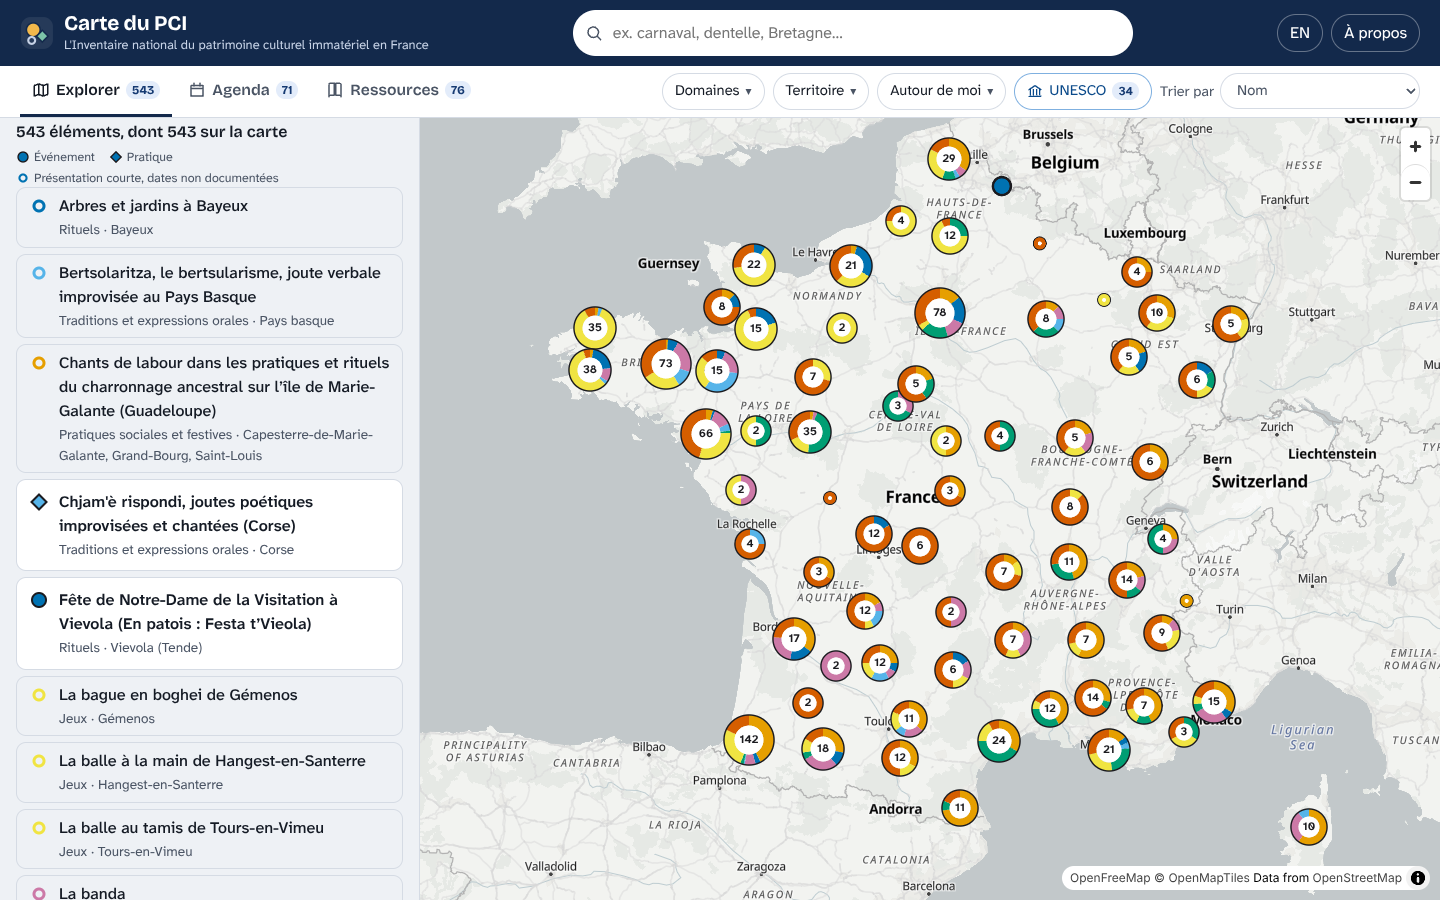
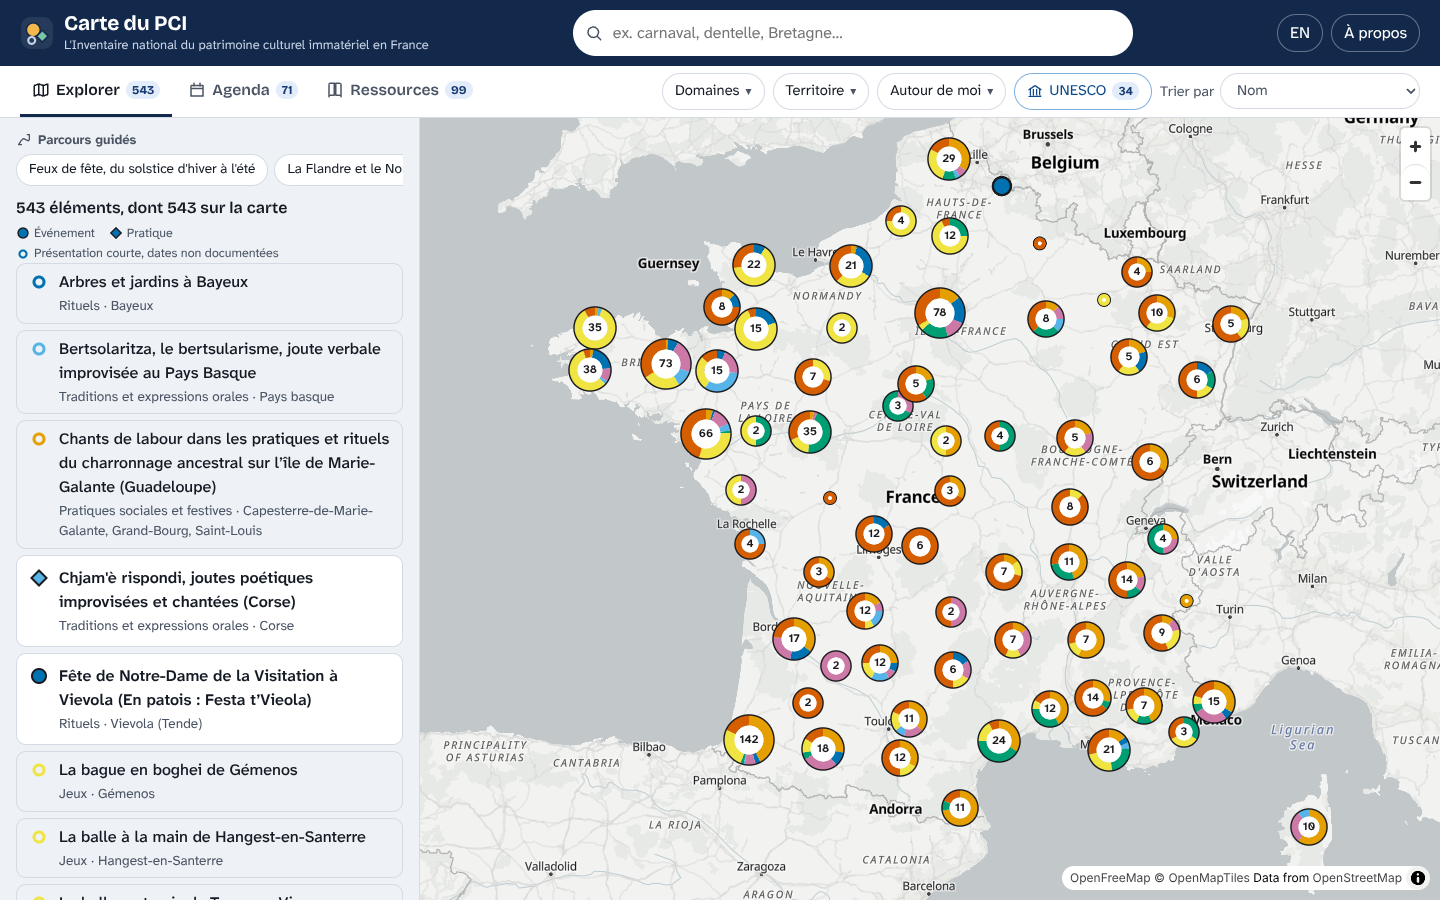
Resources: fold the long list of other worksheets; refresh screenshots
Claude-Session: https://claude.ai/code/session_01AqnAMrBoKunjqUn9FTHm4o

Changed region(s): [[0.0, 0.1244, 0.2812, 1.0]]

diff --git a/web/src/main.ts b/web/src/main.ts
@@ -73,6 +73,7 @@ let entries: Entry[] = [];
 let sheets: Record<string, MediationSheet> = {};
 let announced: Announced | null = null;
 let resources: Resources = { media: {}, lessons: [], stories: [] };
+let otherSheetsOpen = false;
 let lastStoryKey = ""; // story + step last shown, to fly the map only on change
 let mapView: MapView | null = null;
 let mapFailed = false;
@@ -1270,7 +1271,19 @@ function sheetSection(id: string, title: string, intro: string, items: Item[], h
     { class: `res-section${highlight ? " highlight" : ""}`, "aria-labelledby": id },
     h("header", {}, h("h3", { id }, title), h("p", { class: "count" }, s.worksheetsCount(items.length))),
     h("p", { class: "section-note" }, intro),
-    h("ul", { class: "cards" }, items.map(worksheetCard)),
+    highlight || state.q.trim() || state.themes.length
+      ? h("ul", { class: "cards" }, items.map(worksheetCard))
+      : // The long list of other sheets stays folded until asked for (or filtered).
+        h(
+          "details",
+          {
+            class: "more-sheets",
+            open: otherSheetsOpen,
+            ontoggle: (e: Event) => (otherSheetsOpen = (e.target as HTMLDetailsElement).open),
+          },
+          h("summary", { "data-key": "more-sheets" }, s.showSheets(items.length)),
+          h("ul", { class: "cards" }, items.map(worksheetCard)),
+        ),
   );
 }
 

diff --git a/web/src/i18n/fr.ts b/web/src/i18n/fr.ts
@@ -120,6 +120,7 @@ export const fr = {
     "Le CSV (UTF-8, une ligne par élément) sépare les valeurs multiples par « | » ; le JSON garde tous les lieux et la règle de date complète. Les images ne sont pas incluses (crédits et licences propres à chacune).",
   openDataLicence:
     "Licence Ouverte 2.0 (Etalab). Source : ministère de la Culture, Inventaire national du PCI ; lieux d'après PCI Lab et les fiches ; résumés rédigés pour la Carte du PCI (brouillons). Merci de citer « Carte du PCI ».",
+  showSheets: (n: number) => `Afficher les ${n} fiches`,
   sheetQuestions: "Questions pour en parler",
   sheetVocabulary: "Vocabulaire",
   sheetTerm: "Mot et définition",

diff --git a/web/src/i18n/en.ts b/web/src/i18n/en.ts
@@ -122,6 +122,7 @@ export const en: Strings = {
     "The CSV (UTF-8, one row per element) separates multiple values with \"|\"; the JSON keeps every place and the full dating rule. Pictures are not included (each has its own credits and licence).",
   openDataLicence:
     "Licence Ouverte 2.0 (Etalab). Source: French Ministry of Culture, national ICH inventory; places from PCI Lab and the fiches; summaries written for PCI Map (drafts). Please credit \"PCI Map\".",
+  showSheets: (n: number) => `Show the ${n} sheets`,
   sheetQuestions: "Questions to discuss",
   sheetVocabulary: "Vocabulary",
   sheetTerm: "Word and definition",

diff --git a/web/src/style.css b/web/src/style.css
@@ -1761,3 +1761,9 @@ body.lesson-mode #app {
 .story-mode .search-wrap {
   display: none;
 }
+.more-sheets > summary {
+  cursor: pointer;
+  font-weight: 600;
+  color: var(--accent);
+  padding: 6px 0 10px;
+}
